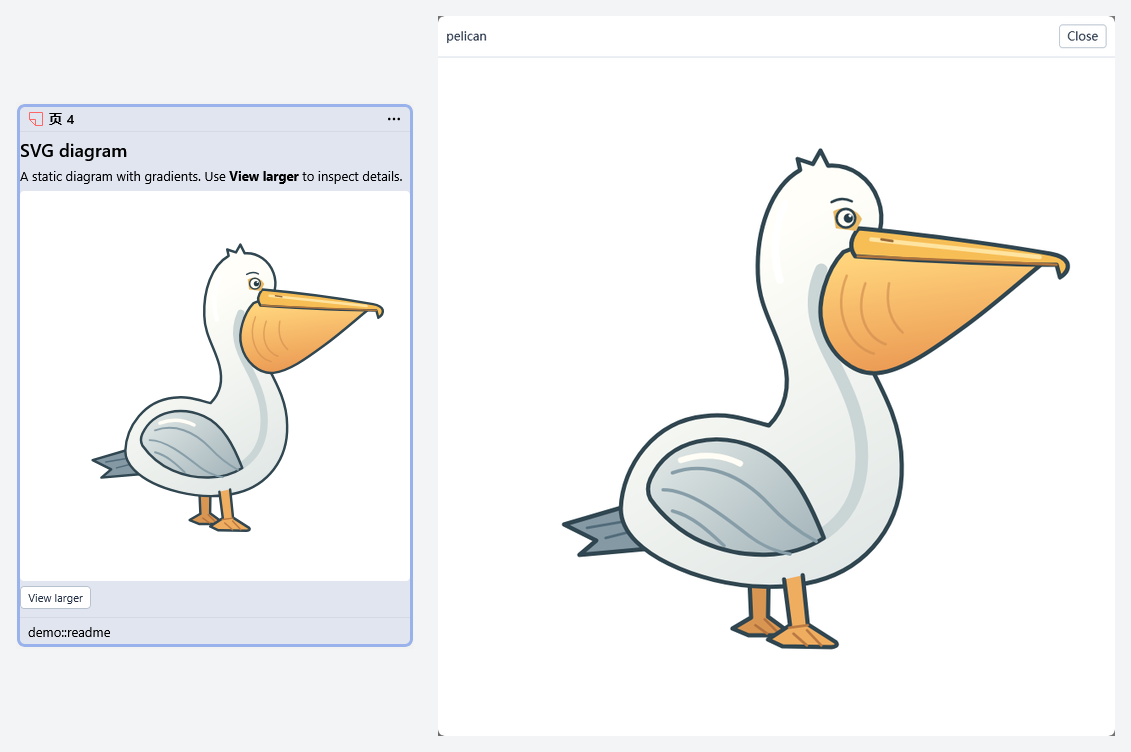
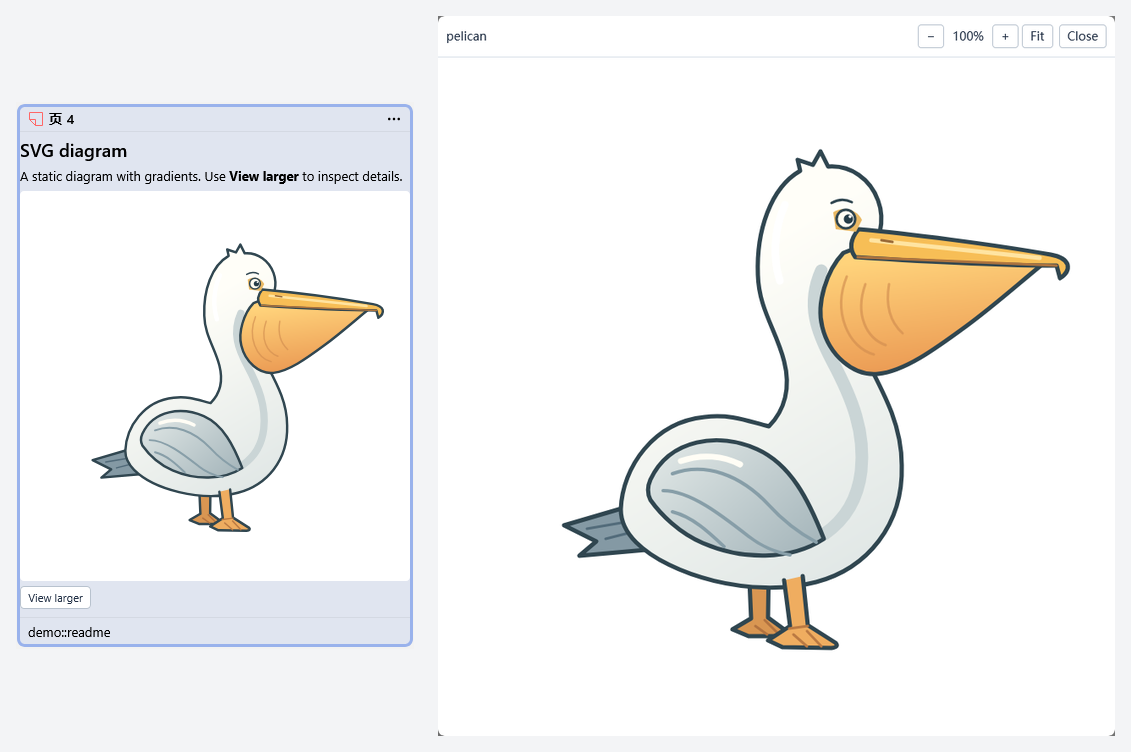
docs: refresh SVG zoom viewer screenshot

diff --git a/README.md b/README.md
@@ -33,12 +33,12 @@ The Markdown, outline, and popup screenshots above use demonstration text in Zot
 
 **SVG diagrams:** edit the Markdown and fenced SVG source (**left**), then leave the editor or press **Escape** to see the rendered diagram (**right**). The original SVG source stays editable.
 
-SVG rendering is experimental and off by default. Enable **Render SVG code blocks (Experimental)** in Settings to try the [six copyable SVG samples](docs/examples/svg-samples.md). These SVG screenshots use the diagram from sample 5 with English demonstration text in Zotero 10.0.6 with Annotation Markdown v0.13.0.
+SVG rendering is experimental and off by default. Enable **Render SVG code blocks (Experimental)** in Settings to try the [six copyable SVG samples](docs/examples/svg-samples.md). These SVG screenshots use the diagram from sample 5 with English demonstration text in Zotero 10.0.6. The source and sidebar previews were captured with Annotation Markdown v0.13.0; the larger-image viewer below uses v0.13.1.
 
 <details>
 <summary>See the SVG larger-image viewer</summary>
 
-![The English SVG demonstration in the annotation sidebar on the left and its larger-image viewer on the right](docs/images/svg-preview-and-viewer.webp)
+![The English SVG demonstration in the annotation sidebar on the left and the v0.13.1 larger-image viewer with zoom controls, a percentage indicator, and Fit on the right](docs/images/svg-preview-and-viewer.webp)
 
 Choose **View larger** to inspect the diagram. In v0.13.1, use **− / +** or the mouse wheel to zoom the image and viewer together, **Fit** to restore a complete view, and drag to pan beyond the Reader bounds. Press **Escape** or choose **Close** to return to the annotation.
 

diff --git a/README.zh-CN.md b/README.zh-CN.md
@@ -33,12 +33,12 @@
 
 **SVG 示意图**：编辑 Markdown 与 SVG 围栏源码（**左侧**），离开编辑器或按 **Esc** 后查看渲染结果（**右侧**）。原始 SVG 源码仍可继续编辑。
 
-SVG 渲染是默认关闭的实验性功能。在设置中开启 **Render SVG code blocks (Experimental)**，即可尝试[六个可复制的 SVG 样例](docs/examples/svg-samples.md)。这两张 SVG 截图使用样例 5 的图形和英文演示文字，取自 Zotero 10.0.6 与 Annotation Markdown v0.13.0。
+SVG 渲染是默认关闭的实验性功能。在设置中开启 **Render SVG code blocks (Experimental)**，即可尝试[六个可复制的 SVG 样例](docs/examples/svg-samples.md)。这些 SVG 截图使用样例 5 的图形和英文演示文字，取自 Zotero 10.0.6。源码和侧栏预览截图使用 Annotation Markdown v0.13.0；下方的大图查看器截图使用 v0.13.1。
 
 <details>
 <summary>查看 SVG 大图查看器</summary>
 
-![左侧为采用英文演示文字的 SVG 标注预览，右侧为对应的大图查看器](docs/images/svg-preview-and-viewer.webp)
+![左侧为采用英文演示文字的 SVG 标注预览，右侧为带缩放按钮、比例显示和 Fit 按钮的 v0.13.1 大图查看器](docs/images/svg-preview-and-viewer.webp)
 
 点击 **View larger** 查看图形细节。v0.13.1 支持用 **− / +** 或滚轮同时缩放图片和浮层，点击 **Fit** 恢复完整视图；图片超出 Reader 可用空间后可拖动平移。按 **Esc** 或点击 **Close** 返回标注。
 
